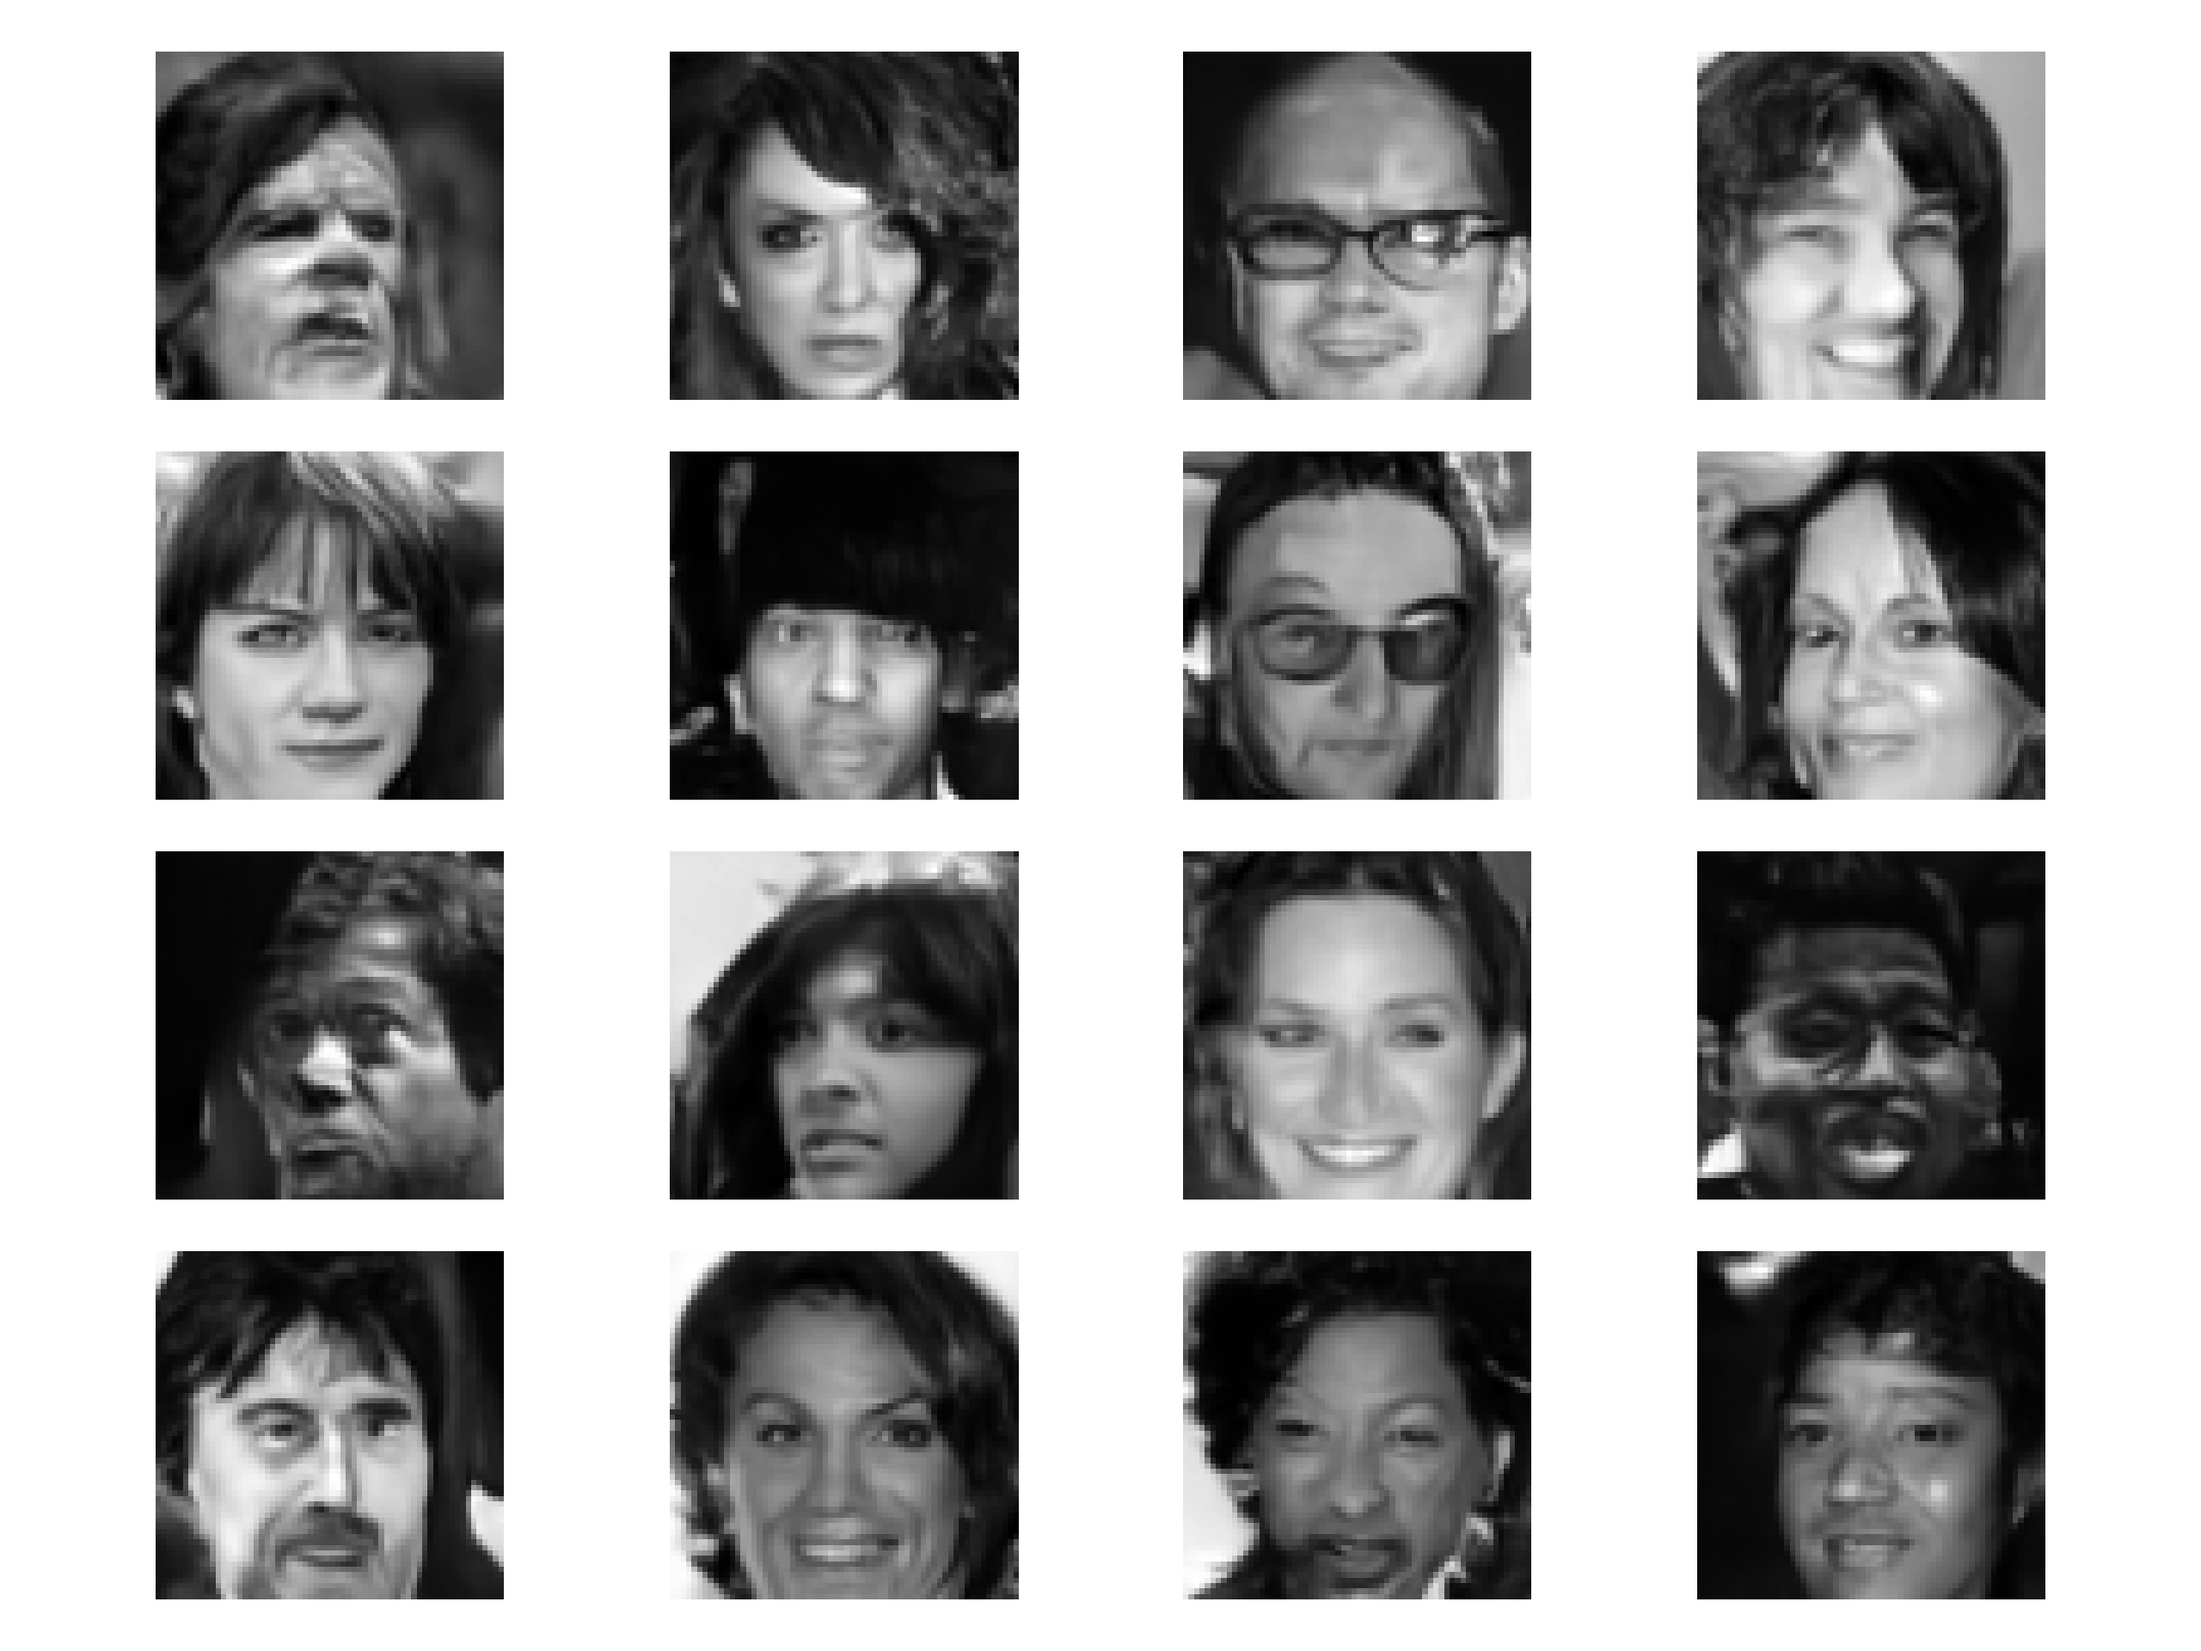
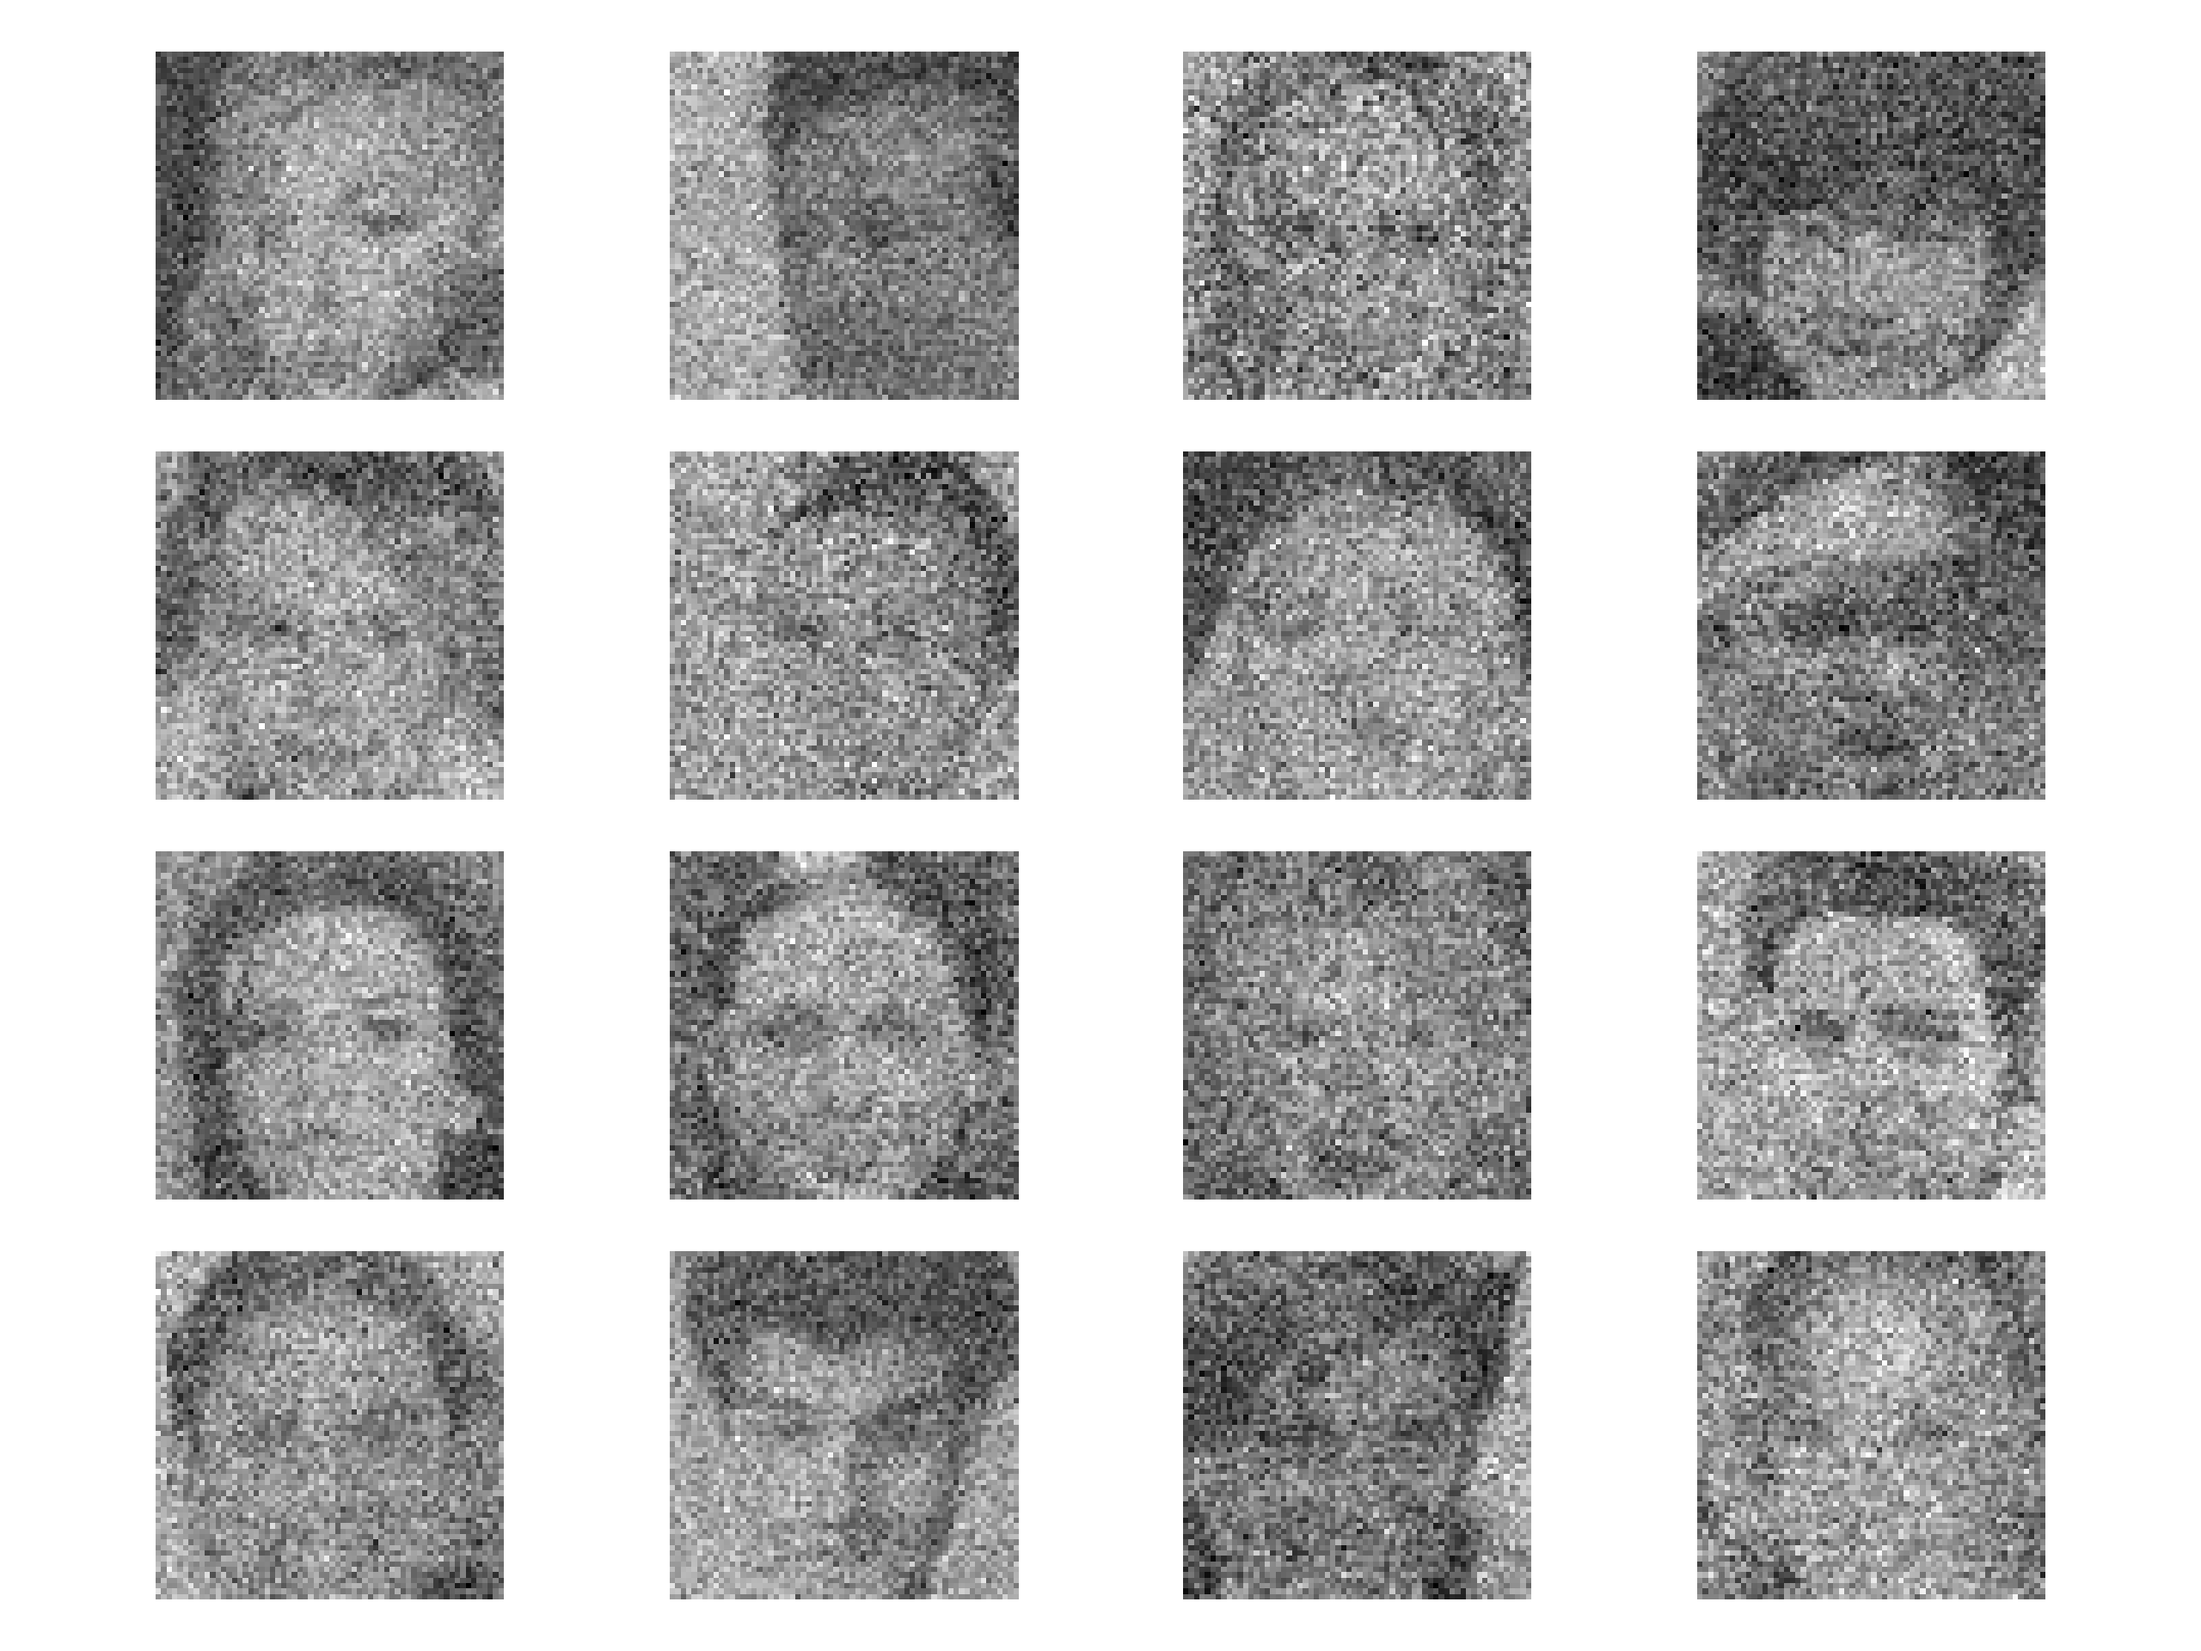
Now its working!

diff --git a/test_DGP.py b/test_DGP.py
@@ -10,10 +10,11 @@ from models.nn import models
 from variational import operators, solvers
 
 # SET PARAMETERS
-CONFIG_PATH = "./configs/SimpleCelebA.yml"
+CONFIG_PATH = "./configs/MNIST.yml"
 
-OPERATOR = "GaussianBlur"
-NOISE_LEVEL = 0.01
+# Select operatore in: "Identity", "GaussianBlur"
+OPERATOR = "Identity"
+NOISE_LEVEL = 0 # 0.01
 
 # Select starting point in: "zeros", "random"
 STARTING_POINT = "random"
@@ -39,12 +40,24 @@ c, nx, ny = config.data.channels, config.data.image_size, config.data.image_size
 # Get operator
 if OPERATOR == "GaussianBlur":
     K = operators.GaussianBlur(shape=(c, nx, ny))
+elif OPERATOR == "Identity":
+    K = operators.Identity(shape=(c, nx, ny))
 
 # Load test image
 if isinstance(TEST_IMAGE, int):
     # Load the data
-    x_test, _ = data.load_data(config)
-    x_true = x_test[TEST_IMAGE : TEST_IMAGE + 1]
+    _, x_test = data.load_data(config)
+
+    # If the data is MNIST, then x_test is a list of tuples.
+    # The data element is the 0-th element of the TEST_IMAGE-th
+    # element of that tuple
+    if config.data.dataset in ["MNIST"]:
+        x_true = x_test[TEST_IMAGE][0].unsqueeze(0)
+
+        # Normalization
+        x_true = (x_true - x_true.min()) / (x_true.max() - x_true.min())
+    else:    
+        x_true = x_test[TEST_IMAGE : TEST_IMAGE + 1]
 else:
     x_true = plt.imread(TEST_IMAGE)
 x_true = x_true.to(config.device)  # Send x_true to device
@@ -64,9 +77,28 @@ elif STARTING_POINT == "random":
     x_T = torch.randn_like(x_true, requires_grad=True)
 
 # Compute solution by GD
-GDSolver = solvers.GD(K, G, config)
-z_sol = GDSolver(y_delta, lmbda=1e-6, z0=x_T, maxit=50, x_true=x_true, alpha=1)
+GDSolver = solvers.GD(K, G, config, optimizer='adam')
+z_sol = GDSolver(y_delta, lmbda=0, z0=x_T, maxit=100, x_true=x_true, alpha=0.01)
 x_sol = G(z_sol).detach().cpu().numpy()
 
-plt.imshow(x_sol[0, 0], cmap="gray")
+print(f"Relative error: {np.linalg.norm(x_sol.flatten() - x_true.detach().cpu().numpy().flatten()) / np.linalg.norm(x_true.detach().cpu().numpy().flatten()):0.4f}.")
+
+plt.figure(figsize=(10, 10))
+plt.subplot(1, 3, 1)
+plt.imshow(x_true.detach().cpu().numpy()[0, 0])
+plt.gray()
+plt.title('x_true')
+plt.axis('off')
+
+plt.subplot(1, 3, 2)
+plt.imshow(y_delta.detach().cpu().numpy()[0, 0])
+plt.gray()
+plt.title('y_delta')
+plt.axis('off')
+
+plt.subplot(1, 3, 3)
+plt.imshow(x_sol[0, 0])
+plt.gray()
+plt.axis('off')
+plt.title('x_DGP')
 plt.show()

diff --git a/variational/solvers.py b/variational/solvers.py
@@ -4,10 +4,12 @@ import torch
 
 
 class GD:
-    def __init__(self, K, G, config):
+    def __init__(self, K, G, config, optimizer=None):
         self.K = K
         self.G = G
         self.config = config
+
+        self.optimizer = optimizer
 
     def __call__(
         self,
@@ -26,8 +28,9 @@ class GD:
         z = z0
         x = self.G(z)
 
-        # Define optimizer
-        optimizer = torch.optim.Adam([z], lr=1e-3)
+        # Define optimizer (if not None)
+        if self.optimizer is not None and self.optimizer.lower() == "adam":
+            optimizer = torch.optim.Adam([z], lr=alpha)
 
         # Initialization
         obj = torch.zeros((maxit + 1,))
@@ -39,23 +42,17 @@ class GD:
             # Update z_old
             z_old = torch.clone(z)
 
-            # Compute gradient
-            # optimizer.zero_grad()
-            # obj_k = torch.sum(torch.square(self.K(x) - y_delta)) + lmbda * torch.sum(
-            #    torch.square(z)
-            # )
-            # obj_k.backward(inputs=[z], retain_graph=True)
-            # optimizer.step()
-
             # Update z
             obj_k = torch.sum(torch.square(self.K(x) - y_delta)) + lmbda * torch.sum(
                 torch.square(z)
             )
-            grad_z = torch.autograd.grad(obj_k, z)[0]
-            z.grad = grad_z
-            # z = z_old - alpha * grad_z
-            optimizer.step()
-            z.grad = None
+            obj_k.backward()
+
+            if self.optimizer is None:
+                z = z_old - alpha * z.grad
+            else:
+                optimizer.step()
+                optimizer.zero_grad()
 
             # Compute x from z
             x = self.G(z)

diff --git a/models/DDIM.py b/models/DDIM.py
@@ -71,7 +71,7 @@ class DDIM(object):
             # Batch steps
             for i, batch in enumerate(train_loader):
                 # Take x_0 from data
-                if self.config.data.dataset in ["LSUNChurch"]:
+                if self.config.data.dataset in ["LSUNChurch", "MNIST"]:
                     x_0, _ = batch  # ADD , _ if batch is a tuple
                 else:
                     x_0 = batch
@@ -123,13 +123,19 @@ class DDIM(object):
                 weights_path = f"./model_weights/{self.config.data.dataset}_{self.config.training.loss}.pth"
                 torch.save(self.model.state_dict(), weights_path)
 
-    def reverse_diffusion(self, x_T, diffusion_steps=None):
+    def reverse_diffusion(self, x_T, diffusion_steps=None, training=False):
         """
         NOTE: the diffusion steps can be different from the diffusion steps used in training (accellerated diffusion).
               See DDIM paper for details.
         """
         # Put the model in evaluation mode
         self.model.eval()
+        
+        # If not training
+        if not training:
+            # Disable weights gradient memorization to avoid memory issues.
+            for param in self.model.parameters():
+                param.requires_grad = False
 
         if diffusion_steps is None:
             diffusion_steps = self.num_timesteps
@@ -157,7 +163,6 @@ class DDIM(object):
 
             # Compute x_{t-1} by x_0
             x_t = alpha_t_pred.sqrt() * x_pred + (1 - alpha_t_pred).sqrt() * e_pred
-            x_t = x_t.clone()  # .detach().clone()
 
         return x_t
 

diff --git a/variational/operators.py b/variational/operators.py
@@ -39,3 +39,22 @@ class GaussianBlur:
         kernel = torch.outer(gauss, gauss)
         kernel = kernel / torch.sum(kernel)
         return kernel.unsqueeze(0).unsqueeze(0).repeat((1, self.shape[0], 1, 1))
+    
+
+class Identity:
+    def __init__(self, shape) -> None:
+        """
+        Defines the Identity operator. Shape is a tuple representing the shape of the image 
+        In particular, it has to be a 3-dimensional tuple containing (c, h, w), where
+            c: number of channels,
+            h: height and w: width.
+        """
+        self.shape = shape
+
+        # Get device
+        self.device = (
+            torch.device("cuda") if torch.cuda.is_available() else torch.device("cpu")
+        )
+
+    def __call__(self, x):
+        return x

diff --git a/miscellaneous/utilities.py b/miscellaneous/utilities.py
@@ -18,6 +18,10 @@ class ImageGenerator:
         self.ddim_model = DDIM(config)
         self.ddim_model.model.load_state_dict(torch.load(weights_path))
 
+        # Disable weights gradient memorization to avoid memory issues.
+        for param in self.ddim_model.model.parameters():
+            param.requires_grad = False
+
     def __call__(self, x_T):
         # Send x_T to device
         x_T = x_T.to(self.config.device)

diff --git a/train.py b/train.py
@@ -11,8 +11,8 @@ from models.DDIM import DDIM
 from models.nn import models
 
 # SET PARAMETERS
-CONFIG_PATH = "./configs/SimpleCelebA.yml"
-TRAIN = False
+CONFIG_PATH = "./configs/MNIST.yml"
+TRAIN = True
 
 SAVE_RESULTS = True
 

diff --git a/test_generation.py b/test_generation.py
@@ -11,7 +11,7 @@ from models.DDIM import DDIM
 from models.nn import models
 
 # SET PARAMETERS
-CONFIG_PATH = "./configs/SimpleCelebA.yml"
+CONFIG_PATH = "./configs/MNIST.yml"
 SAVE_RESULTS = True
 
 # Load config file
